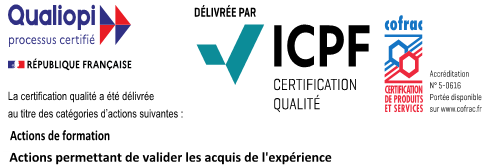
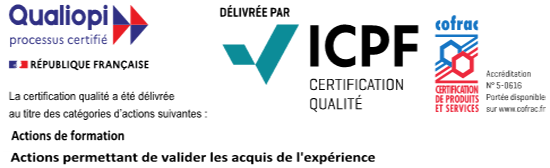
Update certifications display

diff --git a/style.css b/style.css
@@ -120,6 +120,12 @@ footer {
 	margin-top: 100px;
 }
 
+footer img {
+	padding: 20px;
+	background-color: white;
+	border-radius: 20px;
+}
+
 footer a {
 	color: white;
 	text-decoration: none;
